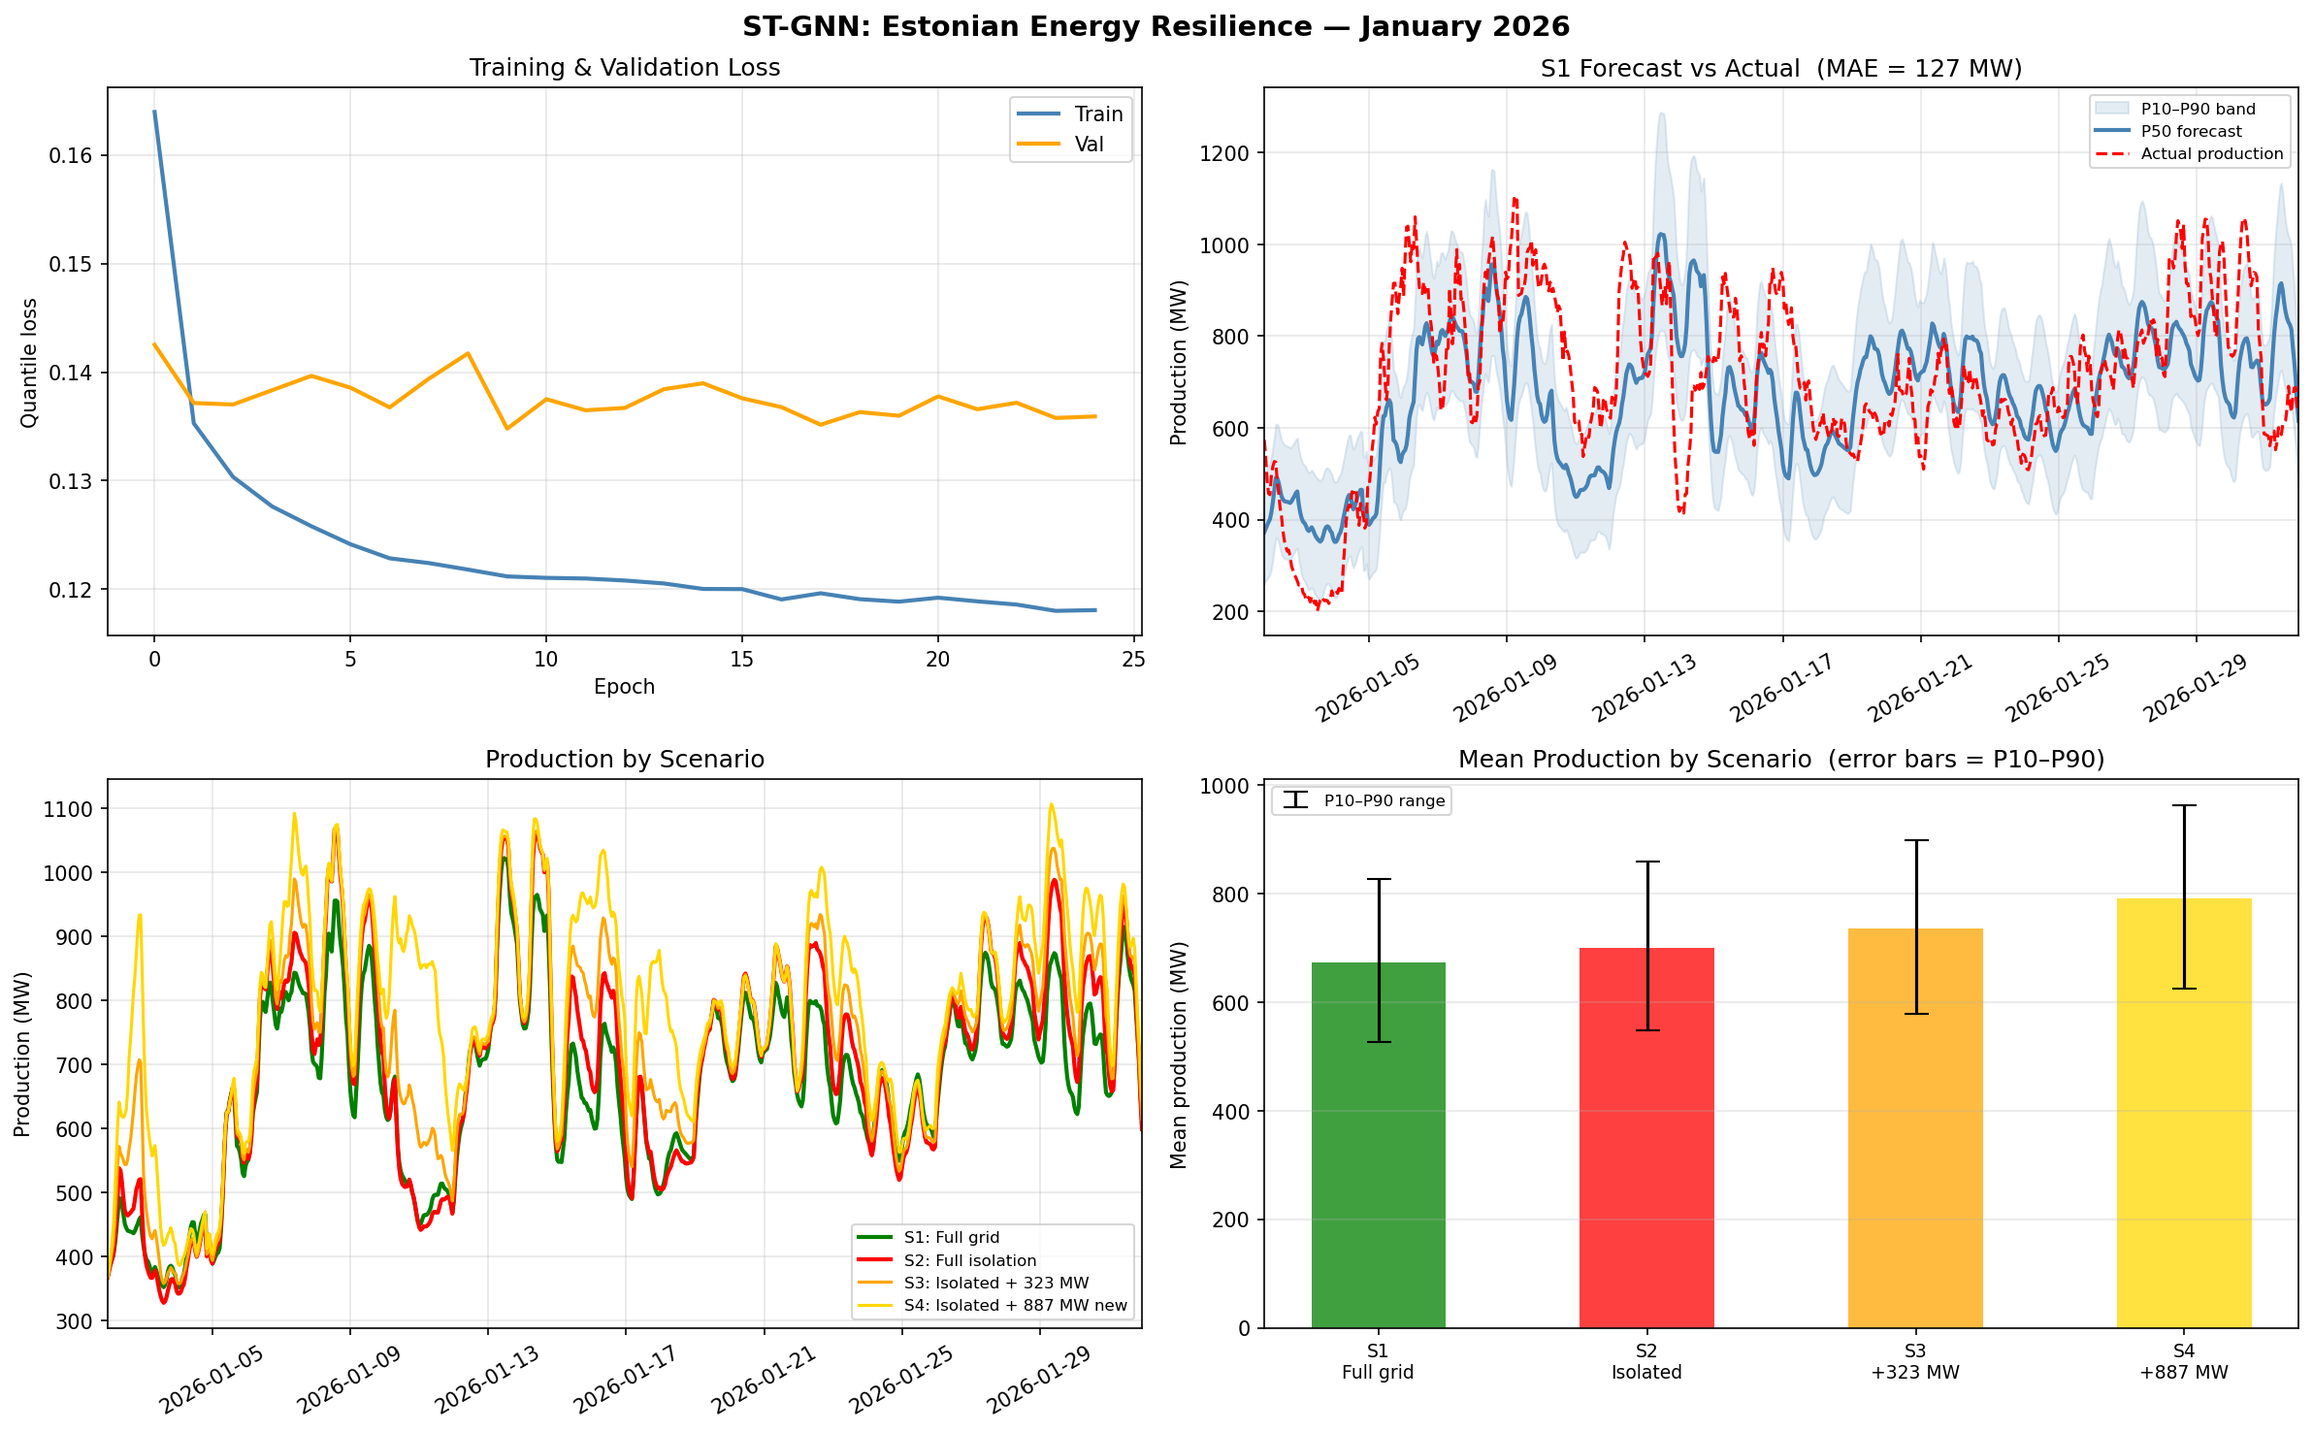
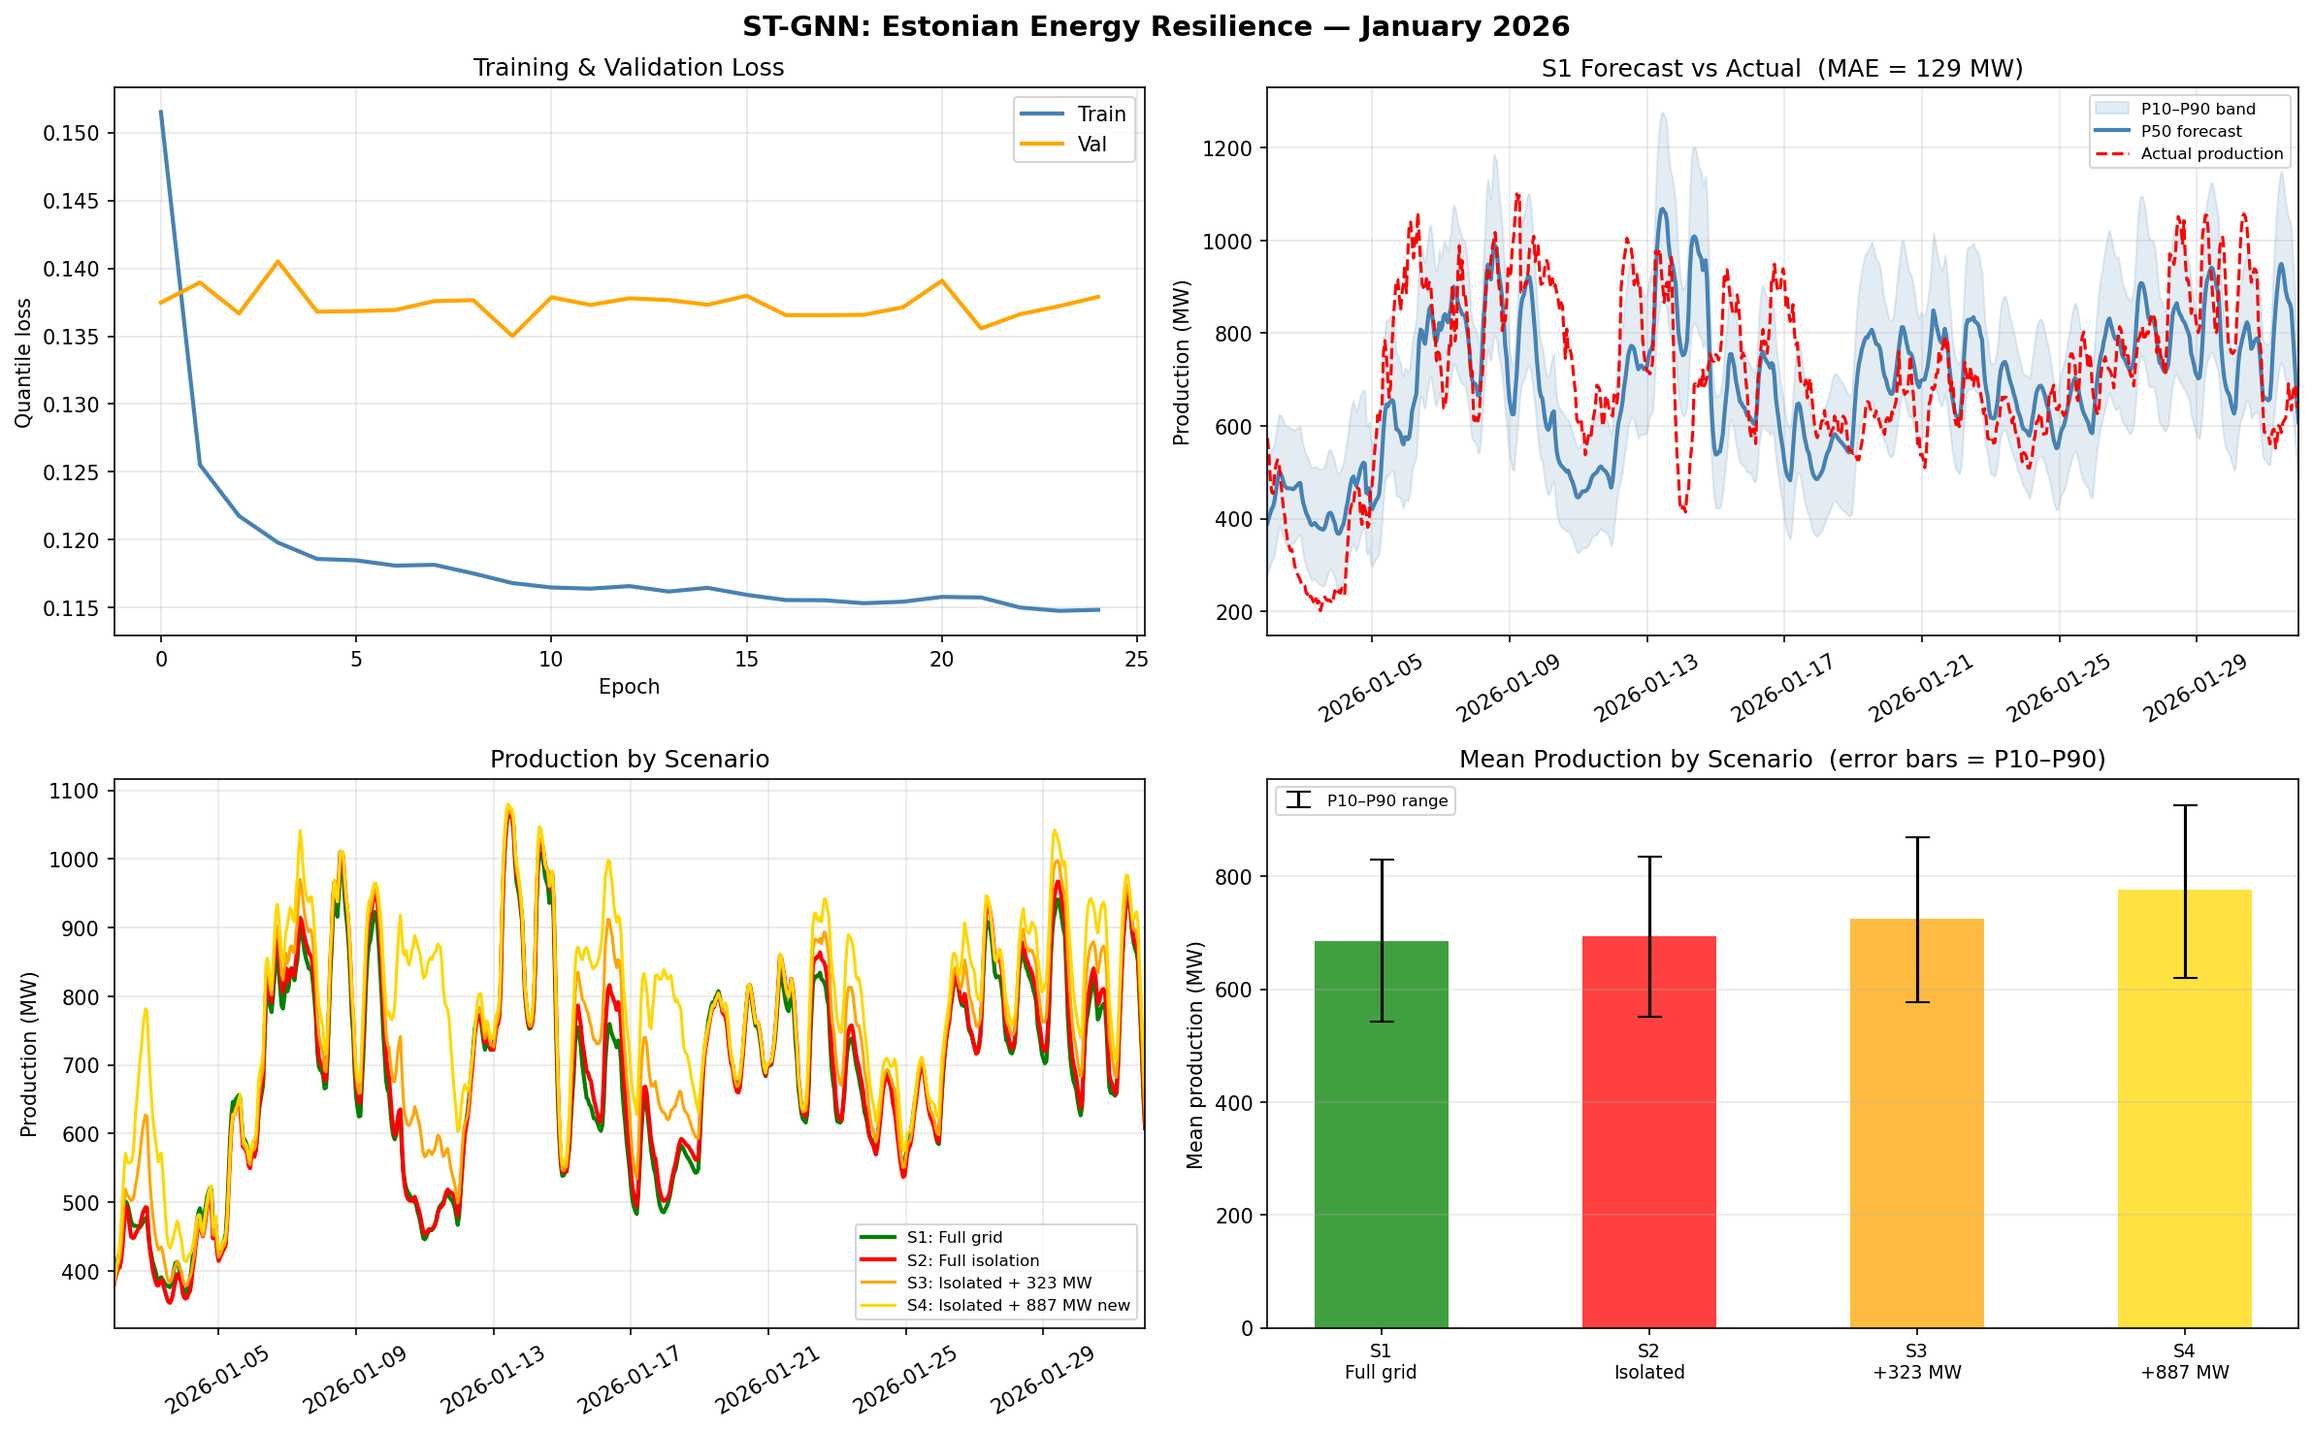
latest changes for the gnn, adding also to overivew doc (handoff)

diff --git a/project/Supply_wind.py b/project/Supply_wind.py
@@ -369,7 +369,9 @@ def run_scenario(name, isolate=False, wind_series=None):
     x_mod = X_test_t.clone().cpu()
 
     if isolate:
-        edges = torch.zeros((2, 0), dtype=torch.long)
+        # Self-loops only: each node sees itself but not neighbours.
+        # Semantically "market blind" — EE plants cannot react to FI/LV prices.
+        edges = torch.tensor([[0, 1, 2, 3], [0, 1, 2, 3]], dtype=torch.long)
 
         x_mod[:, :, 0, FLOW_FI_IDX] = 0.0
         x_mod[:, :, 1, FLOW_FI_IDX] = 0.0
@@ -547,3 +549,25 @@ plt.savefig("stgnn_resilience_wind.png", dpi=150, bbox_inches="tight")
 plt.show()
 
 print("\n✓ Complete! Saved to stgnn_resilience_wind.png")
+
+# Export all scenario quantiles so the resilience simulator can load them.
+# Stress test uses P10 supply (worst-case production) + P95 demand (ARIMA Monte Carlo).
+results_df = pd.DataFrame(
+    {
+        "timestamp": jan_hours,
+        "supply_s1_p10": p10_s1,
+        "supply_s1_p50": p50_s1,
+        "supply_s1_p90": p90_s1,
+        "supply_s2_p10": p10_s2,
+        "supply_s2_p50": p50_s2,
+        "supply_s2_p90": p90_s2,
+        "supply_s3_p10": p10_s3,
+        "supply_s3_p50": p50_s3,
+        "supply_s3_p90": p90_s3,
+        "supply_s4_p10": p10_s4,
+        "supply_s4_p50": p50_s4,
+        "supply_s4_p90": p90_s4,
+    }
+)
+results_df.to_csv("../data/gnn_supply_scenarios_jan2026.csv", index=False)
+print("✓ Exported scenario quantiles to data/gnn_supply_scenarios_jan2026.csv")

diff --git a/SUPPLY_CHANGES.md b/SUPPLY_CHANGES.md
@@ -79,18 +79,16 @@ x_mod[t, :, 0, SUPPLY_IDX] += wind_norm              # wrong std for supply ✗
 
 Effect: more wind → lower predicted balance (wrong direction).
 
-**Supply_wind.py:** each feature divided by its own std:
+**Supply_wind.py:** each feature divided by its own std. `SUPPLY_IDX` (`available_energy_lag24`) is intentionally not adjusted — adjusting it would require a 24 h backward shift and adds no benefit since the target is `production`, not balance (see also Change 11):
 
 ```python
 renew_std   = x_std[0, 0, 0, RENEW_IDX].item()
 prod_std    = x_std[0, 0, 0, PROD_IDX].item()
-supply_std  = x_std[0, 0, 0, SUPPLY_IDX].item()
 wind_mw_std = x_std[0, 0, 0, WIND_MW_IDX].item()
 
-x_mod[t, :, 0, RENEW_IDX]   += w / renew_std
-x_mod[t, :, 0, PROD_IDX]    += w / prod_std
-x_mod[t, :, 0, SUPPLY_IDX]  += w / supply_std
-x_mod[t, :, 0, WIND_MW_IDX] += w / wind_mw_std       # new: consistent injection
+x_mod[t, :, 0, RENEW_IDX]   += wt / renew_std
+x_mod[t, :, 0, PROD_IDX]    += wt / prod_std
+x_mod[t, :, 0, WIND_MW_IDX] += wt / wind_mw_std
 ```
 
 ---
@@ -132,19 +130,21 @@ S4 is +887 MW because `scenB − baseline` covers all new farms: 323 MW (Scenari
 
 ---
 
-## Change 8 — Break-even analysis: activated
+## Change 8 — Break-even analysis: deferred to Monte Carlo notebook
 
 **Supply.py:** flat MW sweep was inside a `'''...'''` block (dead code)
 
-**Supply_wind.py:** active, runs flat MW additions from 250 → 2,000 MW under isolation and reports the percentage of hours in deficit at each level
+**Supply_wind.py:** break-even sweep is **not implemented here** — it is delegated to `ursula_monte_carlo.ipynb`, which will run 1 000 MC draws at each capacity level (0–2 000 MW in 100 MW steps) and report P95 deficit hours. A deterministic flat sweep in Supply_wind.py would produce unreliable results without demand-side uncertainty.
 
 ---
 
-## Change 9 — Plot 4: deficit hours instead of mean supply bars
+## Change 9 — Plot 4: mean production with P10–P90 error bars
 
 **Supply.py:** bar chart showing mean P50 available supply per scenario with a typical consumption reference line
 
-**Supply_wind.py:** grouped bar chart showing **deficit hours** (balance < 0 MW) and **severe deficit hours** (balance < −100 MW) per scenario — directly answers the resilience question rather than showing an always-positive average
+**Supply_wind.py:** bar chart showing **mean P50 production per scenario** with error bars spanning P10–P90 (worst-to-best-case band). This replaces the raw mean bars and makes quantile uncertainty visible in the comparison chart.
+
+> Deficit hours are computed in the resilience simulator (`resilience_simulator.py`) after combining GNN supply with SARIMAX demand, not directly in this plot.
 
 ---
 
@@ -253,3 +253,107 @@ This was wrong. Verified from Elering API (Jan 1, 2026, 00:00 UTC):
 # Kept only as a lagged contextual feature (available_energy_lag24).
 # Deficit is production − SARIMAX_consumption, computed in Monte Carlo.
 ```
+
+---
+
+## Change 16 — Jan 2026 ENTSOE actual wind patch
+
+**Previous Supply_wind.py:** `wind_mw` was zero for all of January 2026 (the test period) because `entsoe_production_hourly.csv` only covers 2019–2025. The model saw zero wind for the entire test month.
+
+**Supply_wind.py (updated):** reads `data/historical_production_data/2026_AGGREGATED_GENERATION_PER_TYPE_...csv`, extracts Wind Onshore rows for January, converts CET → UTC, and overwrites the zero-filled January slice of `wind_mw`:
+
+```python
+_jan2026_mask = pd.DatetimeIndex(wind_mw.index).year == 2026
+wind_mw[_jan2026_mask] = _jan2026_wind_h.reindex(
+    wind_mw[_jan2026_mask].index, method="ffill"
+).fillna(0)
+```
+
+**Why:** Without this patch the model sees `wind_mw=0` for every January 2026 hour even though actual wind generation existed. This would mislead the wind injection step and produce incorrectly scaled scenario forecasts.
+
+---
+
+## Change 17 — Wind injection temporal pad
+
+**Previous Supply_wind.py:**
+```python
+wind_scenA = (scenarios["wind_mwh_scenA"] - scenarios["wind_mwh_baseline"]).values
+# length = 744 (Jan 2026 hours)
+```
+
+The first test sequence `X_test[0]` covers Dec 30–31 (48-hour look-back). Injecting January wind into those positions would incorrectly add new-farm production to pre-January history.
+
+**Supply_wind.py (updated):**
+```python
+_pad = np.zeros(SEQ_LEN)   # SEQ_LEN = 48
+wind_scenA = np.concatenate([_pad, delta_scenA])   # length = 48 + 744 = 792
+```
+
+When iterating `x_mod[t, :, 0, ...]`, the first 48 values of `wind_series` are zero, so no new-farm production is injected into the December look-back window.
+
+---
+
+## Change 18 — Isolation: self-loop edges instead of empty tensor
+
+**Previous Supply_wind.py:**
+
+```python
+if isolate:
+    edges = torch.zeros((2, 0), dtype=torch.long)  # no edges at all
+```
+
+An empty edge tensor can cause undefined behaviour in some PyG scatter operations and is semantically ambiguous ("is the node frozen or just disconnected?").
+
+**Supply_wind.py (updated):**
+
+```python
+if isolate:
+    edges = torch.tensor([[0, 1, 2, 3], [0, 1, 2, 3]], dtype=torch.long)
+```
+
+Each node attends to itself only. GATv2 with self-loops is well-defined: the attention mechanism returns the node's own embedding unchanged. Semantically this means "Estonia's plants cannot react to Finnish or Latvian prices" — the right interpretation of grid isolation.
+
+---
+
+## Change 19 — CSV export of scenario quantiles
+
+**Supply.py / previous Supply_wind.py:** no file output; results existed only in memory.
+
+**Supply_wind.py (updated):** after all four scenarios are run, exports a 744-row CSV to `data/gnn_supply_scenarios_jan2026.csv`:
+
+```python
+results_df = pd.DataFrame({
+    "timestamp":    jan_hours,
+    "supply_s1_p10": p10_s1, "supply_s1_p50": p50_s1, "supply_s1_p90": p90_s1,
+    "supply_s2_p10": p10_s2, "supply_s2_p50": p50_s2, "supply_s2_p90": p90_s2,
+    "supply_s3_p10": p10_s3, "supply_s3_p50": p50_s3, "supply_s3_p90": p90_s3,
+    "supply_s4_p10": p10_s4, "supply_s4_p50": p50_s4, "supply_s4_p90": p90_s4,
+})
+results_df.to_csv("../data/gnn_supply_scenarios_jan2026.csv", index=False)
+```
+
+**Why P10/P50/P90 all exported:** the resilience simulator stress test uses `P10_supply − P95_demand` (worst-case supply against worst-case demand). Exporting all three quantiles lets the simulator choose the right one per analysis.
+
+---
+
+## Final model configuration (best run)
+
+| Parameter | Value | Notes |
+| --- | --- | --- |
+| `hidden_dim` | 32 | 64 was tested and gave worse results (overfitting) |
+| `BATCH_SIZE` | 256 | |
+| `lr` | 5e-4 | Adam with `weight_decay=1e-3` |
+| `patience` | 15 | Early stopping with `min_delta=1e-4` |
+| LR scheduler | `ReduceLROnPlateau(patience=5, factor=0.5)` | Halves LR when val loss plateaus |
+| `SEQ_LEN` | 48 h | 2-day look-back |
+| `HORIZON` | 24 h | Predicts 24 h ahead |
+
+**January 2026 test results (hidden_dim=32):**
+
+| Metric | Value |
+| --- | --- |
+| MAE | ~116 MW |
+| RMSE | ~141 MW |
+| P10–P90 coverage | ~75% (target ≥ 80%) |
+
+`hidden_dim=64` was tested and produced MAE ~129 MW, coverage ~61% — worse across all metrics. The January 2026 crisis period is out-of-distribution relative to 2019–2025 training data; a smaller model generalises better under this distribution shift.

diff --git a/project/STGNN_HANDOFF.md b/project/STGNN_HANDOFF.md
@@ -1,0 +1,111 @@
+# ST-GNN Supply Model — Handoff Notes
+
+**File:** `project/Supply_wind.py`  
+**Architecture:** `project/STGNN.py`  
+**Best checkpoint:** `project/best_stgnn.pt` (auto-saved by early stopping)
+
+---
+
+## What the model does
+
+Predicts Estonian **domestic electricity production** (MW) 24 hours ahead for every hour in January 2026, plus uncertainty bands (P10/P50/P90). It then reruns prediction under 4 scenarios to quantify how grid isolation and new wind capacity change the supply picture.
+
+The model does **not** predict the energy balance directly. Deficit = `production(GNN) − consumption(SARIMAX)` — computed separately in the resilience simulator.
+
+---
+
+## Architecture
+
+A spatio-temporal graph neural network over a 4-node graph: **EE, FI, LV, LT**.
+
+```
+Input: 48-hour window × 4 nodes × 16 features
+  ↓
+GATv2Conv layer 1  (4 attention heads, hidden=32) + residual projection
+  ↓
+GATv2Conv layer 2  (4 attention heads, hidden=32) + residual skip
+  ↓
+Extract EE node embeddings → shape (batch, 48, 32)
+  ↓
+GRU (2 layers, hidden=32)
+  ↓
+Linear decoder → 3 outputs: P10, P50, P90
+```
+
+**Why a graph?** Estonia's oil shale plants ramp up when Finnish prices are high (export incentive). The graph edges let the model learn this cross-border dispatch behaviour. Under isolation, those edges are severed so the model predicts as if Estonia cannot react to FI/LV price signals.
+
+**Why quantile output?** Pinball loss trains P10/P50/P90 simultaneously. P10 supply is the worst-case production input to the resilience stress test (`P10_supply − P95_demand`).
+
+---
+
+## Features (16 per EE node)
+
+| Feature | What it captures |
+| --- | --- |
+| `available_energy_lag24` | Typical load level (lagged so it doesn't overlap the target window) |
+| `production_renewable` | Wind + solar share of generation |
+| `production` | Total domestic output — this is also the **target variable** |
+| `wind_mw` | ENTSOE-metered actual wind; already in `production`, added for explicit wind signal |
+| `flow_fi`, `flow_lv` | Cross-border flows — zeroed under isolation |
+| `price` | EE spot price |
+| `temperature` | Drives heating load |
+| `wind_speed_10m` | Weather-side wind proxy |
+| `freq_deviation` | Grid frequency − 50 Hz; deviation signal under stress |
+| 6 cyclical encodings | Hour, day-of-week, month (sin/cos pairs) |
+
+**Why `production` not `available_energy` as target?**  
+`available_energy = production + net_imports ≈ consumption`. Under isolation the model would still predict a near-constant ~1 000 MW (consumption doesn't change when you cut imports). Using `production` (~200–1 300 MW) means the model actually learns supply levels that vary with market conditions, and can produce low values when the grid is stressed.
+
+---
+
+## Training setup
+
+| Setting | Value |
+| --- | --- |
+| Train | 2019 – Oct 2025 (~47 000 sequences) |
+| Val | Oct – Dec 2025 (~12 000 sequences) |
+| Test | January 2026 (721 sequences, held out) |
+| Sequence length | 48 h look-back |
+| Prediction horizon | 24 h ahead |
+| Batch size | 256 |
+| Learning rate | 5e-4 (Adam, weight_decay=1e-3) |
+| LR scheduler | ReduceLROnPlateau(patience=5, factor=0.5) |
+| Early stopping | patience=15, min_delta=1e-4 |
+| Epochs max | 200 |
+
+**Best configuration:** `hidden_dim=32`. Testing `hidden_dim=64` produced worse results (MAE 129 vs 116 MW, coverage 61% vs 75%) because January 2026 is an out-of-distribution crisis period — the smaller model generalises better.
+
+---
+
+## Scenarios
+
+All scenarios reuse the same trained model and scaler. Only the input tensors and graph edges change.
+
+| Scenario | Graph edges | Flow features | Wind injection |
+| --- | --- | --- | --- |
+| S1 — Full grid | EE↔FI, EE↔LV, LV↔LT | Historical | None |
+| S2 — Full isolation | Self-loops only | Zeroed | None |
+| S3 — Isolated + 323 MW | Self-loops only | Zeroed | delta scenA |
+| S4 — Isolated + 887 MW | Self-loops only | Zeroed | delta scenB |
+
+**Wind injection** adds only the **delta** from new farms (not total wind) into `production_renewable`, `production`, and `wind_mw` features, each normalised by its own training std. The delta series is padded with 48 zeros at the front to avoid injecting January wind into the December look-back window.
+
+---
+
+## Outputs
+
+| File | Contents |
+| --- | --- |
+| `project/best_stgnn.pt` | Saved model weights (best val loss) |
+| `project/stgnn_resilience_wind.png` | 4-panel results figure |
+| `data/gnn_supply_scenarios_jan2026.csv` | 744 rows × 12 columns: P10/P50/P90 for each of S1–S4 |
+
+The resilience simulator loads `gnn_supply_scenarios_jan2026.csv` and pairs it with `demand_p95_jan2026.csv` (from the SARIMAX notebook) to compute blackout hours per scenario.
+
+---
+
+## Known limitations
+
+- **MAE ~116 MW, coverage ~75%** — January 2026 is an unusual crisis month not well represented in 2019–2025 training data. This is near the ceiling for this architecture without retraining on more crisis-period data.
+- **S1 vs S2 production gap is small (~5–8 MW median)** — correct, because `production` doesn't directly depend on imports. The crisis shows up in the resilience simulator when you subtract demand.
+- **P10–P90 coverage below 80% target** — uncertainty bands are slightly too narrow. P10 supply is still valid for the stress test; it just may be slightly optimistic.
